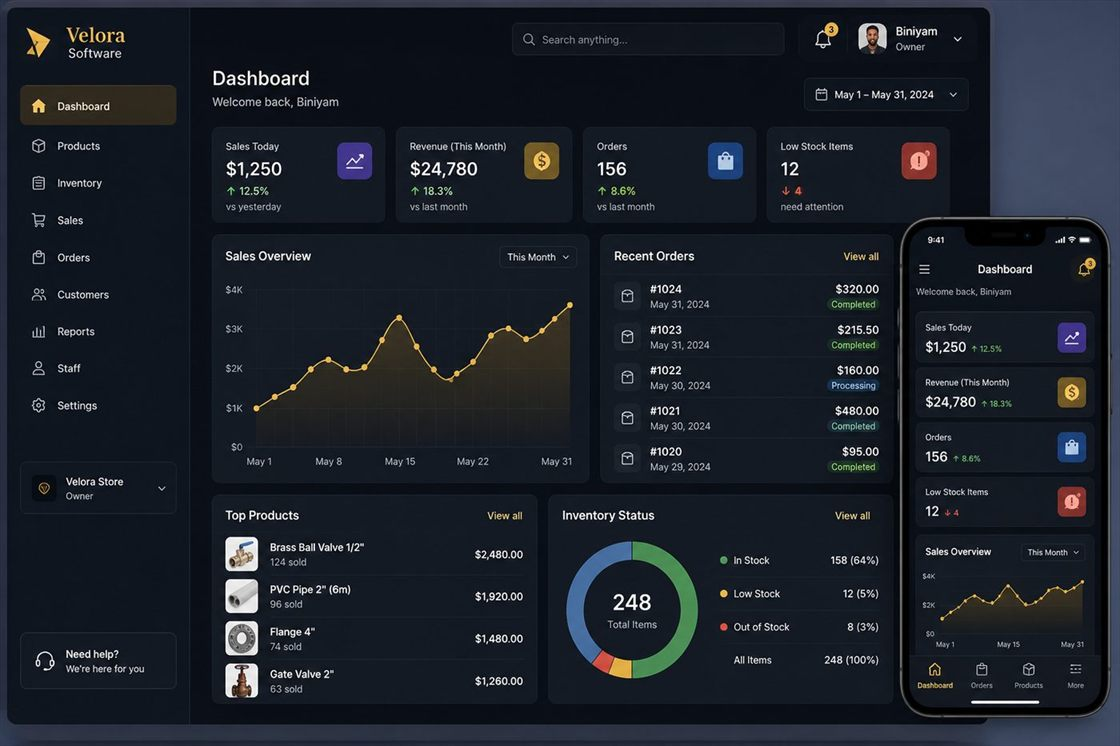
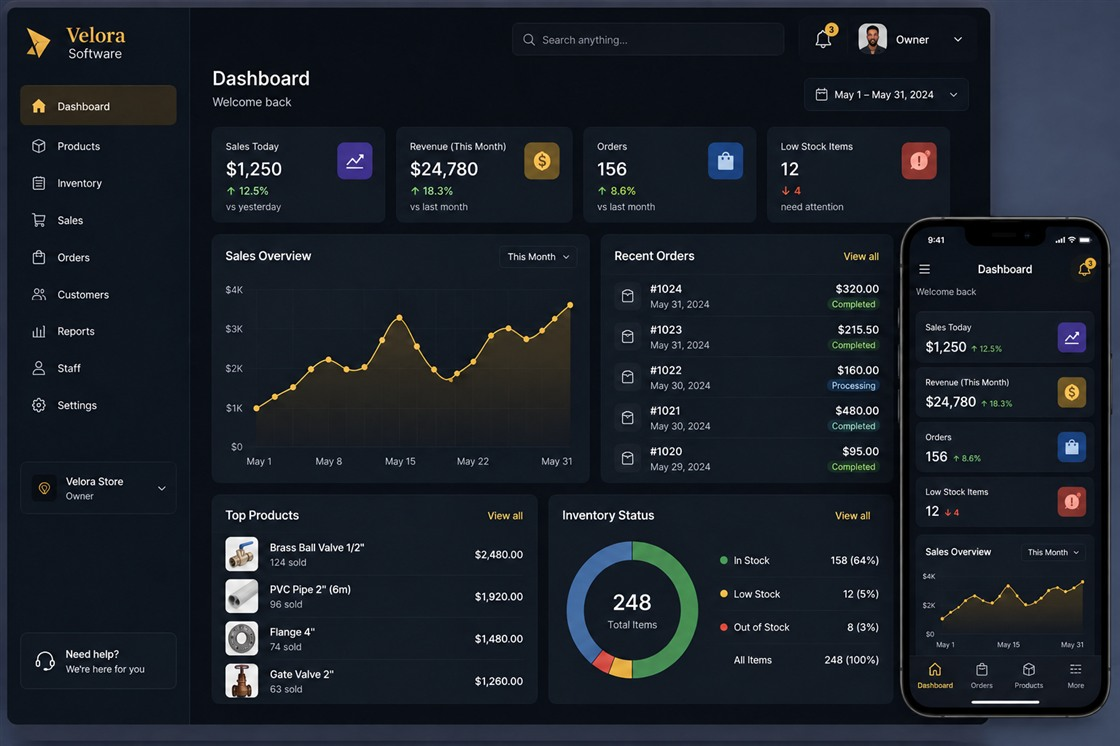
Refresh branding copy and dashboard imagery

diff --git a/index.html b/index.html
@@ -12,7 +12,7 @@
 <link rel="preload" href="https://fonts.googleapis.com/css2?family=IBM+Plex+Mono:wght@400;500&family=Inter:wght@400;500;600&family=Space+Grotesk:wght@500;700&display=swap" as="style">
 <link href="https://fonts.googleapis.com/css2?family=IBM+Plex+Mono:wght@400;500&family=Inter:wght@400;500;600&family=Space+Grotesk:wght@500;700&display=swap" rel="stylesheet" media="print" onload="this.media='all'">
 <noscript><link href="https://fonts.googleapis.com/css2?family=IBM+Plex+Mono:wght@400;500&family=Inter:wght@400;500;600&family=Space+Grotesk:wght@500;700&display=swap" rel="stylesheet"></noscript>
-<link rel="preload" as="image" href="/images/dashboard-showcase-1120.jpg" fetchpriority="high">
+<link rel="preload" as="image" href="/images/dashboard-showcase-1120.jpg?v=2" fetchpriority="high">
 <link rel="stylesheet" href="/assets/styles.css">
 <script>document.documentElement.className += ' js';if(location.pathname.endsWith('/index.html')){history.replaceState(null,'',location.pathname.slice(0,-10)+location.search+location.hash);}</script>
 </head>
@@ -37,7 +37,7 @@
   <section class="hero" id="top">
     <div class="wrap hero-grid">
       <div class="hero-copy">
-        <span class="label">Toronto · Seneca Computer Programming graduate</span>
+        <span class="label">Toronto Web Development &amp; Business Software</span>
         <h1 style="margin-top:1.1rem">Better websites. <span class="gold">Smarter software.</span></h1>
         <p class="lead">We design websites that help customers choose you, then build software and automations that make the work behind the scenes easier.</p>
         <div class="hero-actions">
@@ -46,7 +46,7 @@
         </div>
       </div>
       <div class="hero-art dashboard-shot" aria-hidden="true">
-        <img src="/images/dashboard-showcase-1120.jpg" width="1120" height="746" fetchpriority="high" alt="Inventory and sales dashboard built for a client, shown on desktop and mobile"
+        <img src="/images/dashboard-showcase-1120.jpg?v=2" width="1120" height="746" fetchpriority="high" alt="Inventory and sales dashboard built for a client, shown on desktop and mobile"
              onerror="this.remove();document.getElementById('heroSvg').style.display='block'">
         <span class="dash-live"><i></i> Sales overview</span>
         <span class="dash-alert"><b>Stock alerts</b> See what needs attention</span>
@@ -142,7 +142,7 @@
         <div class="hero-actions"><a class="btn" href="/software/">See custom software</a></div>
       </div>
       <figure class="showcase reveal" style="margin:0">
-        <img src="/images/dashboard-showcase-1120.jpg" alt="Velora inventory and sales dashboard with charts, order totals, stock alerts, and mobile view" width="1120" height="746" loading="lazy" decoding="async">
+        <img src="/images/dashboard-showcase-1120.jpg?v=2" alt="Velora inventory and sales dashboard with charts, order totals, stock alerts, and mobile view" width="1120" height="746" loading="lazy" decoding="async">
         <figcaption>A responsive inventory and sales dashboard designed for desktop and mobile operations.</figcaption>
       </figure>
     </div>
@@ -219,10 +219,10 @@
   <section class="founder-spotlight">
     <div class="wrap founder-spotlight-grid">
       <div class="reveal">
-        <span class="label">The person behind the build</span>
-        <h2>A programmer behind <span class="gold">every project</span>.</h2>
-        <p>Velora is led by a Seneca Polytechnic Computer Programming (CPP) graduate with experience building a range of applications. You work directly with the builder to turn your business needs into a useful product.</p>
-        <div class="hero-actions"><a class="btn ghost" href="/about/">About the builder →</a></div>
+        <span class="label">Application experience</span>
+        <h2>Websites and software built as <span class="gold">one connected system</span>.</h2>
+        <p>Velora brings experience across websites and applications to every project. We turn business needs into focused products that are practical for customers, staff, and owners.</p>
+        <div class="hero-actions"><a class="btn ghost" href="/about/">About Velora →</a></div>
       </div>
       <div class="founder-spotlight-card reveal">
         <span class="label">What we can build</span>

diff --git a/about/index.html b/about/index.html
@@ -40,17 +40,17 @@
         <h1>Software that <span class="gold">earns its place</span> in your business.</h1>
       </div>
       <figure class="showcase reveal">
-        <img src="/images/dashboard-showcase-1120.jpg" width="1120" height="746" fetchpriority="high" loading="lazy" decoding="async"
+        <img src="/images/dashboard-showcase-1120.jpg?v=2" width="1120" height="746" fetchpriority="high" loading="lazy" decoding="async"
              alt="Velora Software inventory dashboard shown on a laptop and phone, with sales, orders, customers, low-stock alerts and a sales chart">
         <figcaption>Inventory dashboard built for a wholesale client — live sales, stock levels, low-stock alerts and daily orders, on the desk and in a pocket.</figcaption>
       </figure>
 
       <div class="aboutgrid">
         <div class="reveal">
-          <span class="label">Founder-led studio</span>
+          <span class="label">Toronto software studio</span>
           <h3 style="font-size:1.35rem;margin:.7rem 0">Direct from discovery to launch.</h3>
           <p>Velora is a small Toronto software studio building fast custom websites and business systems for growing companies. You work directly with the person planning and building the project—without layers of account management.</p>
-          <p>Our founder graduated from Seneca Polytechnic’s Computer Programming (CPP) program and has built a range of applications. That software background shapes how we approach websites, dashboards, internal tools, and connected business workflows.</p>
+          <p>Our experience building applications shapes how we approach websites, dashboards, internal tools, and connected business workflows.</p>
           <ul class="checks">
             <li><b>Custom-built</b> — original code, written in-house</li>
             <li><b>Direct</b> — you work with the team building it, start to finish</li>
@@ -61,7 +61,6 @@
         </div>
         <aside class="founder-panel reveal">
           <span class="label">How we work</span>
-          <div><b>Education</b><span>Seneca Polytechnic · Computer Programming (CPP) graduate</span></div>
           <div><b>Based in</b><span>Toronto, Canada · working locally and remotely</span></div>
           <div><b>Communication</b><span>English or Amharic, direct with the builder</span></div>
           <div><b>Project load</b><span>A small number at a time for focused delivery</span></div>

diff --git a/software/index.html b/software/index.html
@@ -88,7 +88,7 @@
   <hr class="rule">
   <section>
     <div class="wrap software-split">
-      <figure class="showcase reveal" style="margin:0"><img src="/images/dashboard-showcase-1120.jpg" alt="Inventory and sales software by Velora shown on desktop and mobile" width="1120" height="746" loading="lazy" decoding="async"><figcaption>Responsive operations software: sales, revenue, orders, stock status, and reporting in one interface.</figcaption></figure>
+      <figure class="showcase reveal" style="margin:0"><img src="/images/dashboard-showcase-1120.jpg?v=2" alt="Inventory and sales software by Velora shown on desktop and mobile" width="1120" height="746" loading="lazy" decoding="async"><figcaption>Responsive operations software: sales, revenue, orders, stock status, and reporting in one interface.</figcaption></figure>
       <div class="reveal"><span class="label">Built for daily use</span><h2 style="margin-top:.8rem">Clear enough for staff. <span class="gold">Complete enough for owners</span>.</h2><p>The interface keeps common actions simple while preserving the history, permissions, and reporting the business depends on.</p><div class="software-list"><span>Fast data entry</span><span>Search &amp; filters</span><span>Full activity history</span><span>Mobile access</span><span>Exports &amp; reports</span><span>Training &amp; handover</span></div></div>
     </div>
   </section>
